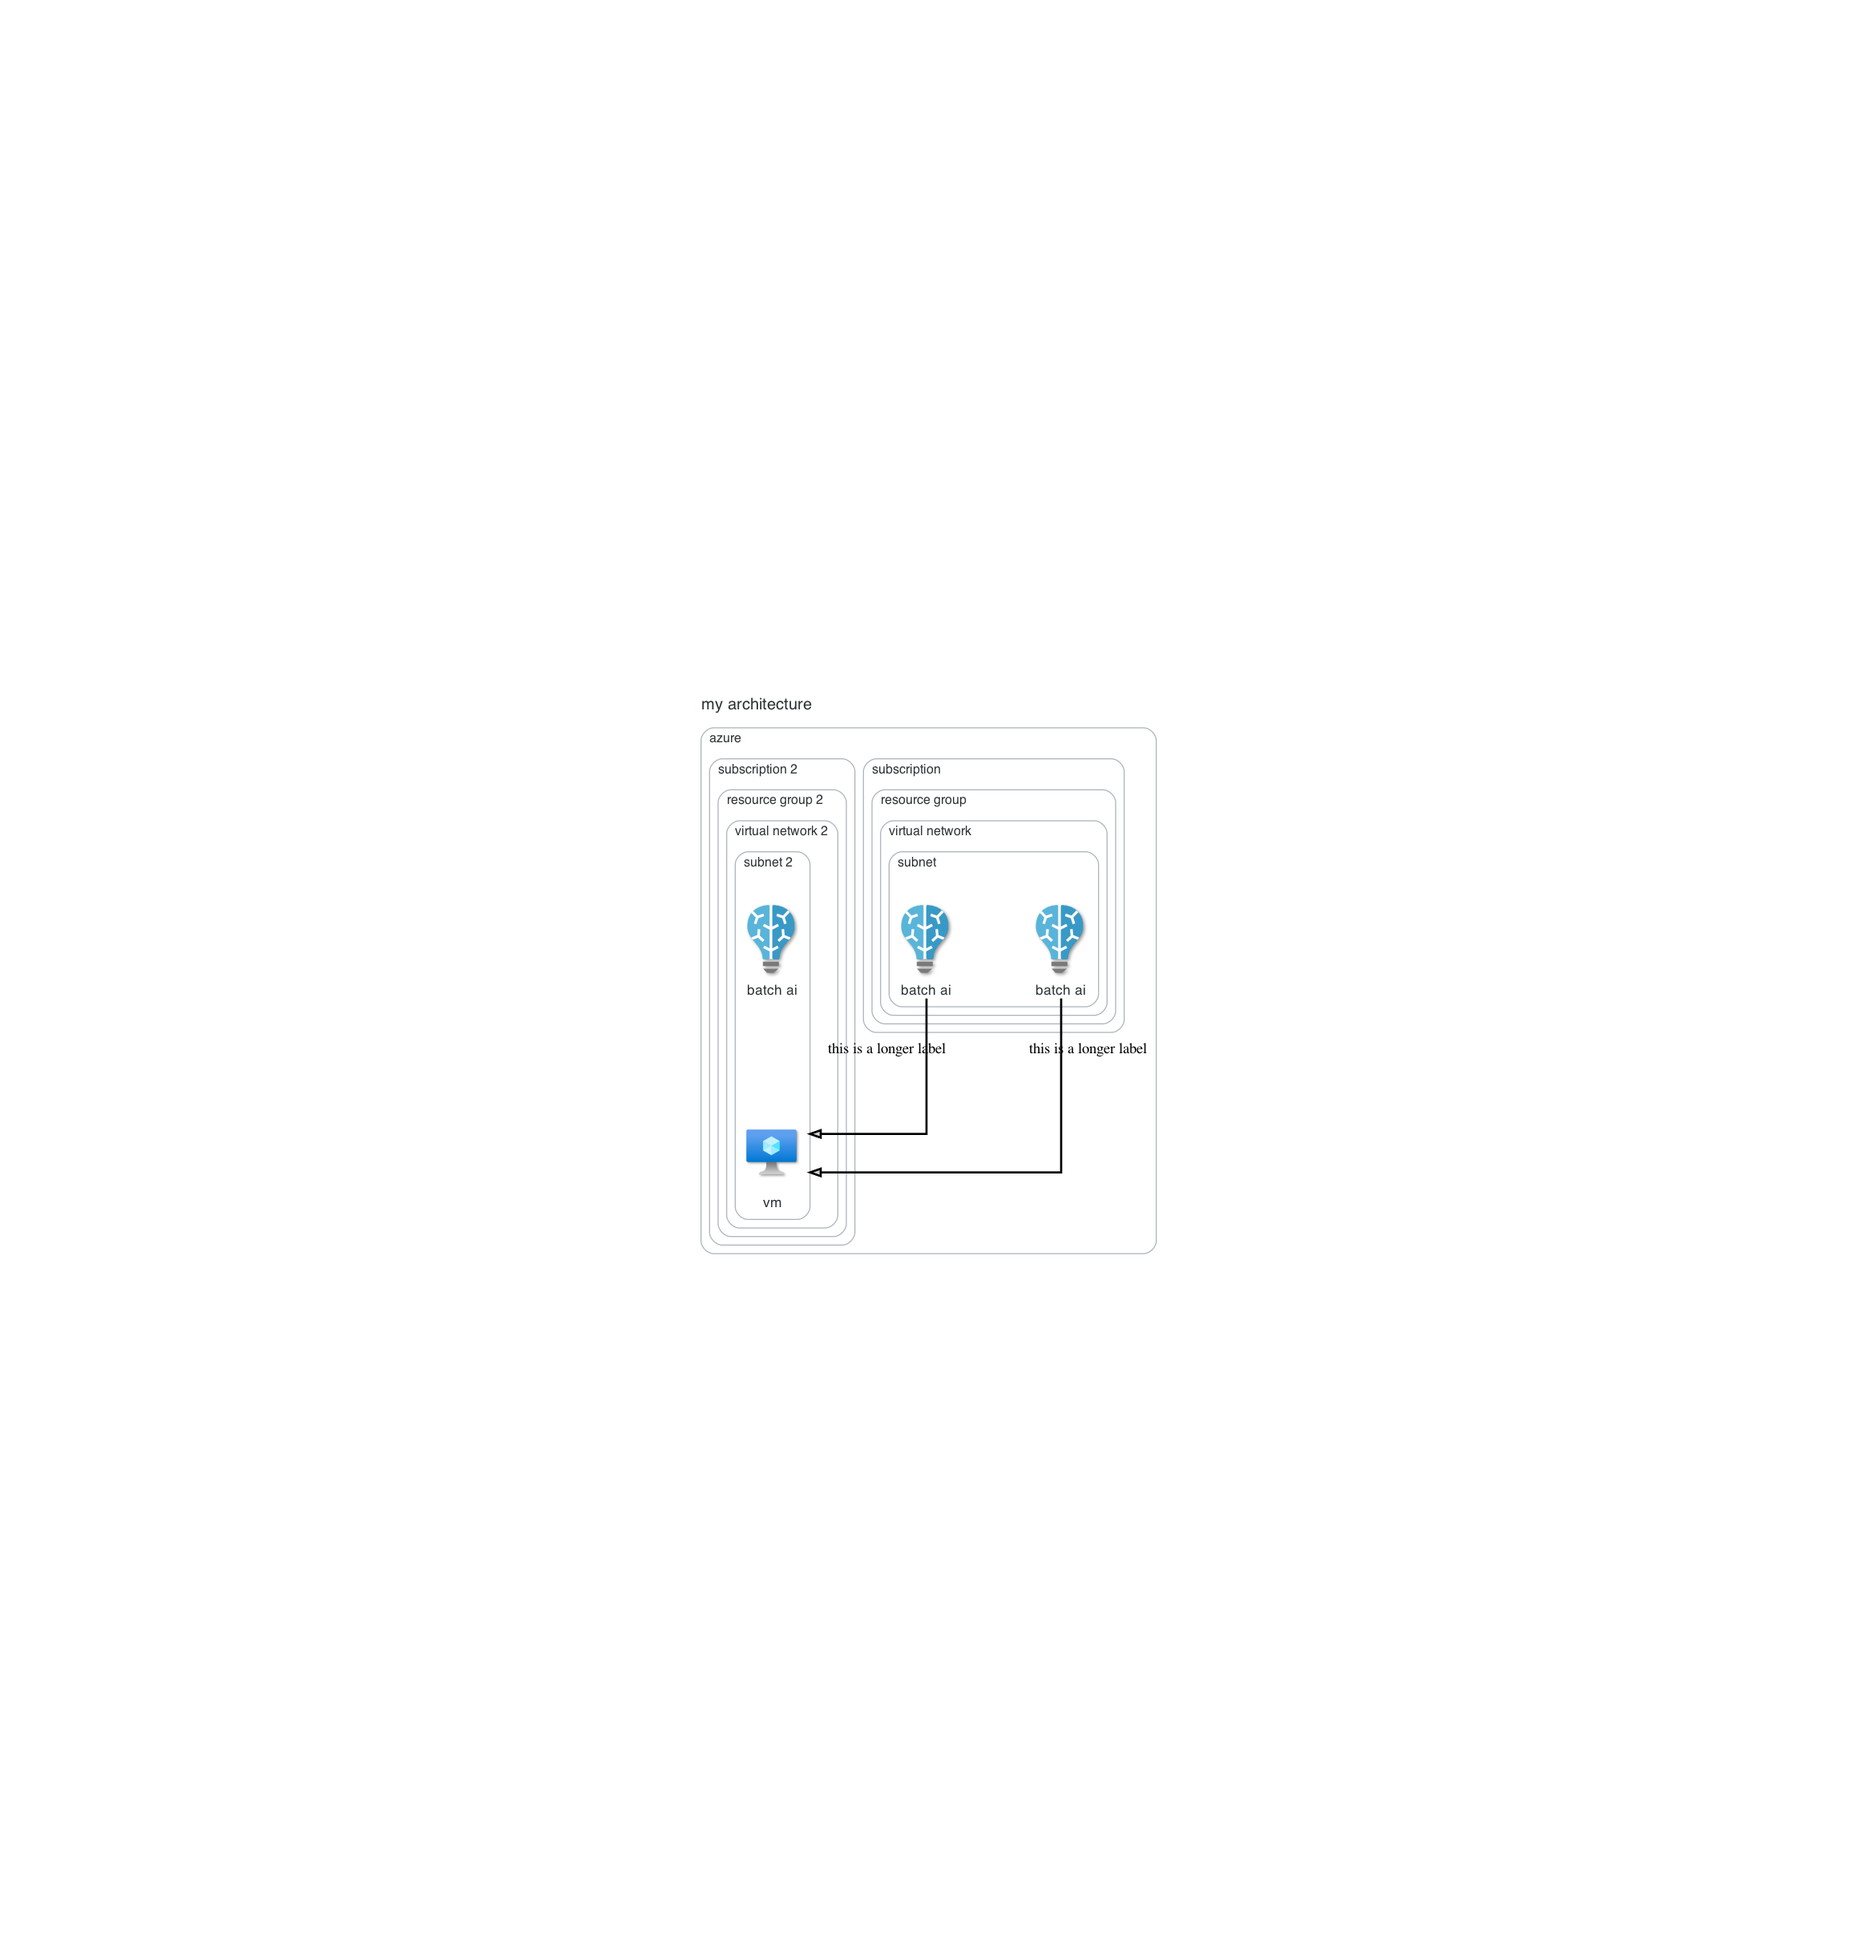
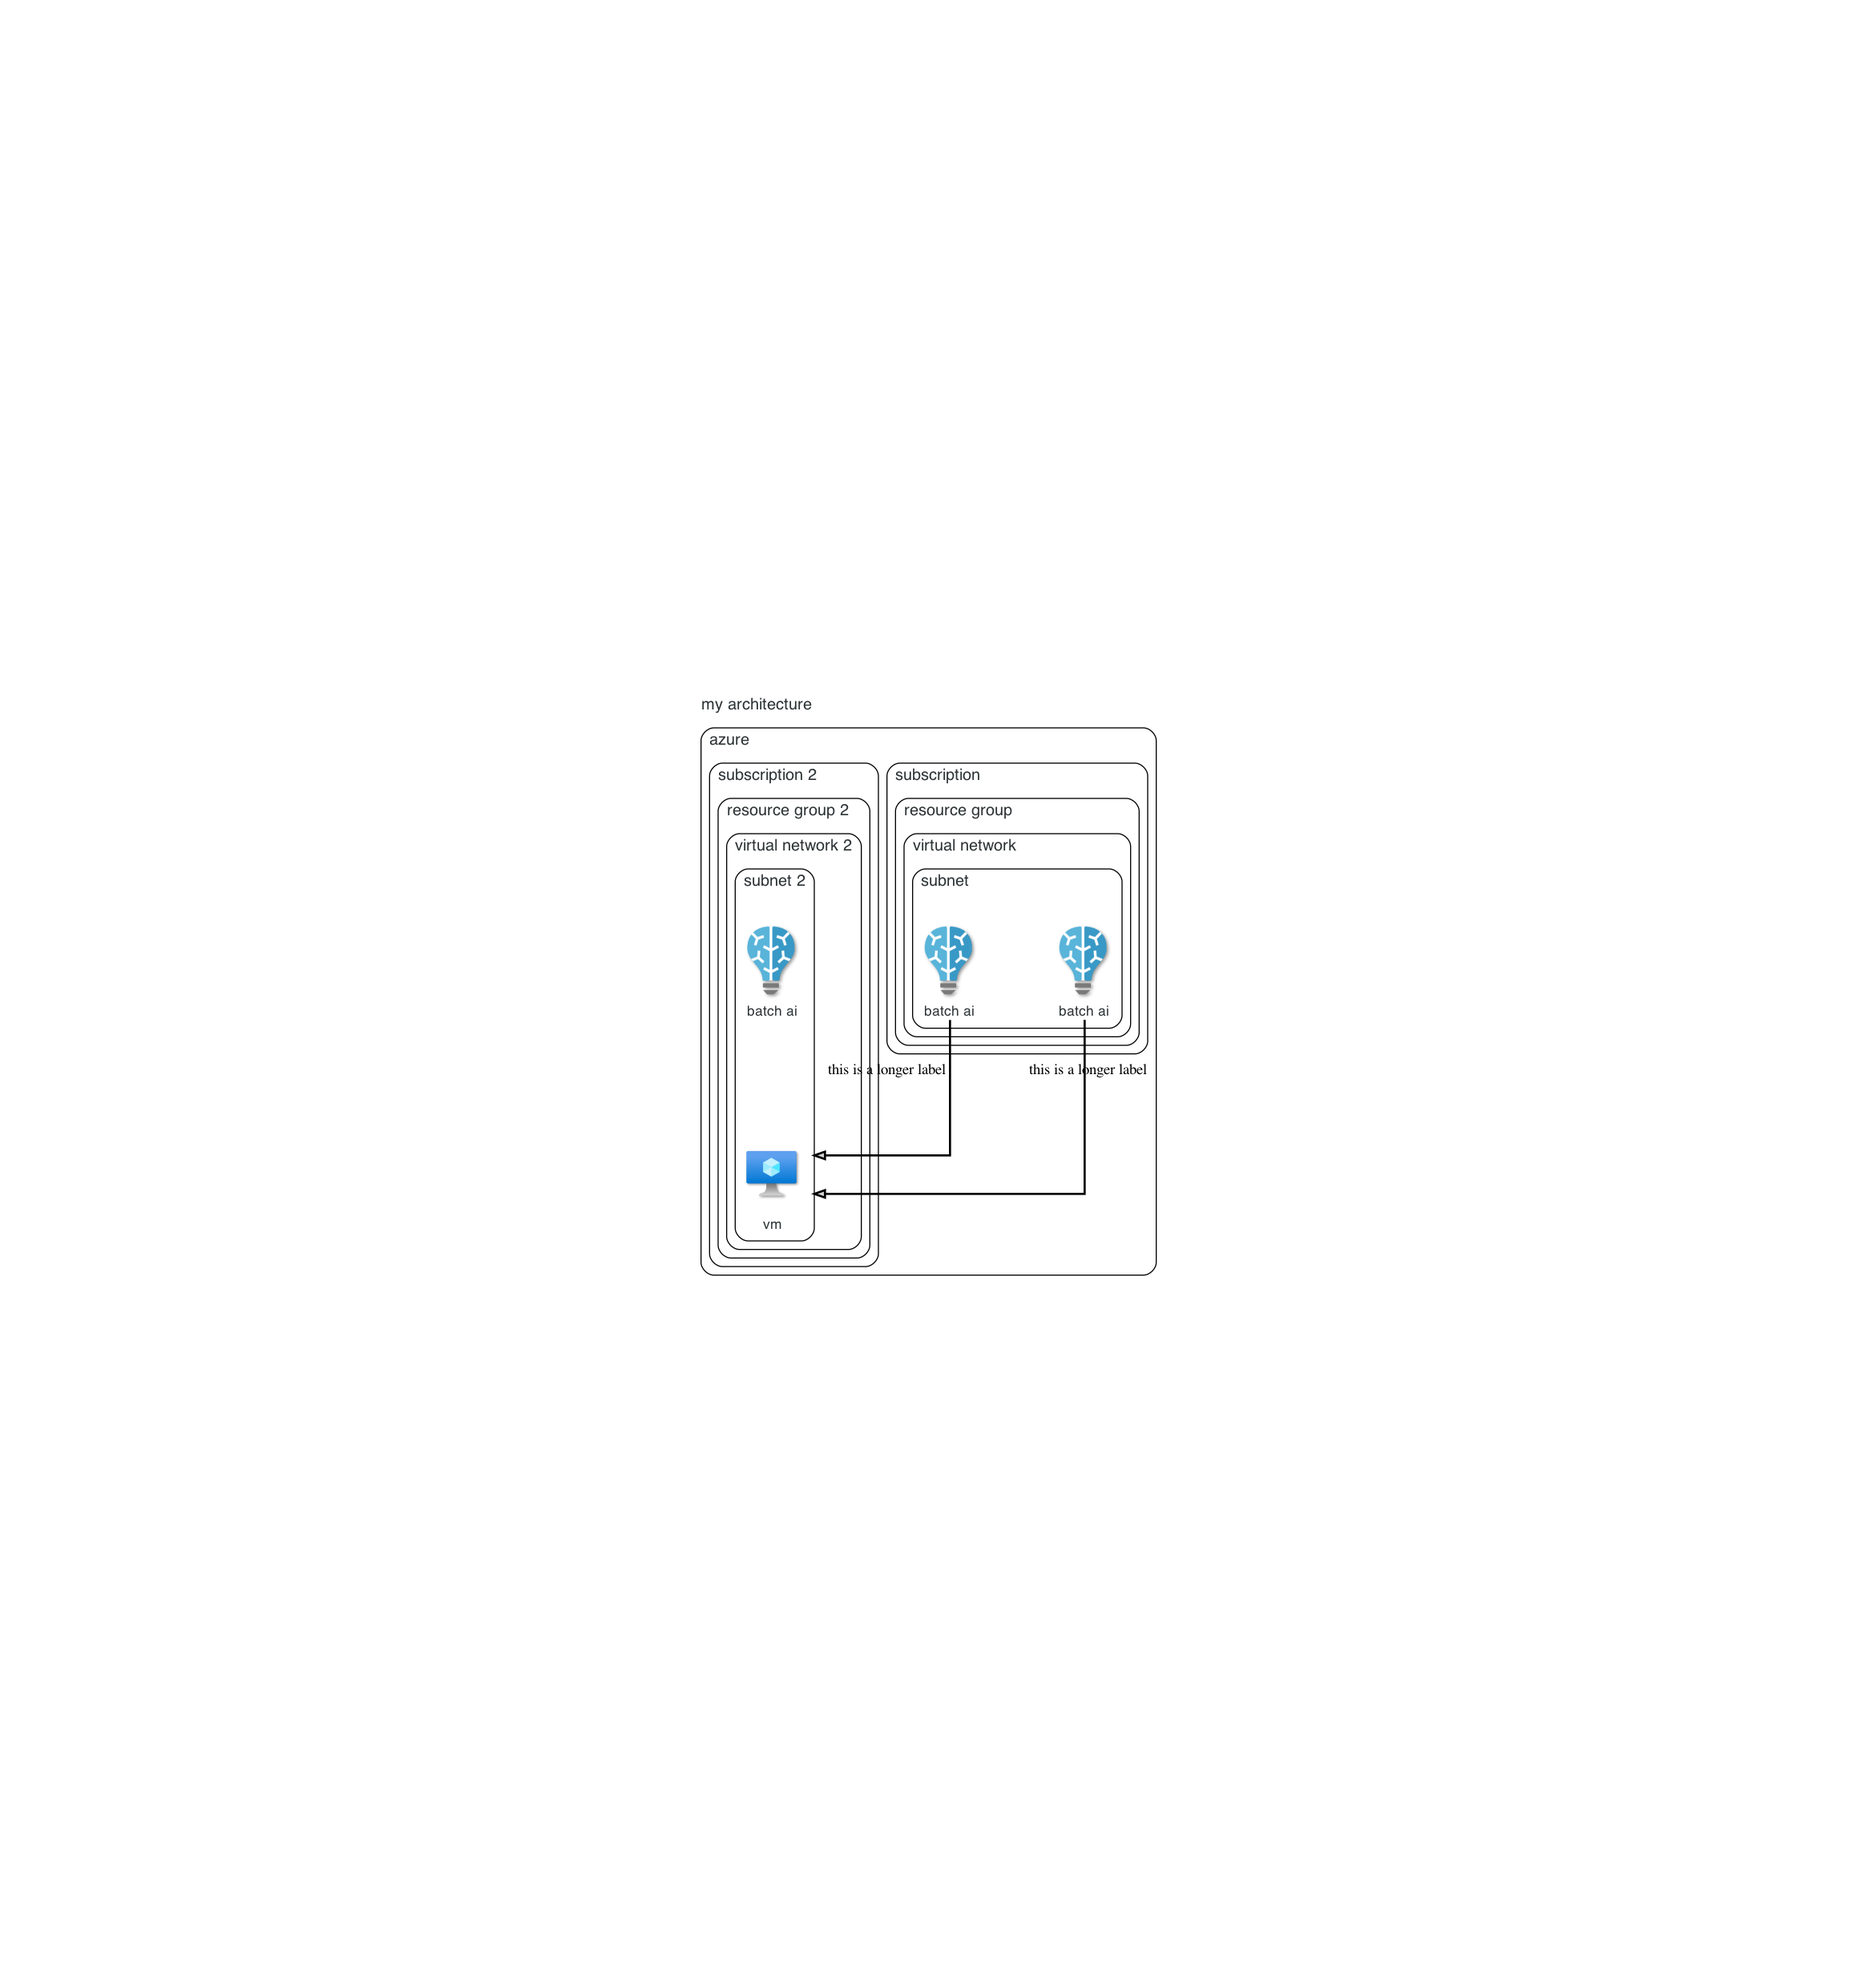
removed the legacy settings class and updated all references to settings to theme

Changed region(s): [[0.3729, 0.3428, 0.6215, 0.6544]]

diff --git a/architectures/core/__init__.py b/architectures/core/__init__.py
@@ -34,12 +34,12 @@ class Graph():
     """
     Creates the base graph for an architecture diagram.
     """
-    def __init__(self, name="", output_file_name="", output_file_format="png", settings=None, show=True, engine='dot'):
+    def __init__(self, name="", output_file_name="", output_file_format="png", theme=None, show=True, engine='dot'):
         """
         :param name ...
         :param output_file_name ...
         :param output_file_format ...
-        :param settings ...
+        :param theme ...
         :param show ...
         """
 
@@ -54,24 +54,24 @@ class Graph():
 
         self.dot = Digraph(name=self.name, filename=self.output_file_name, engine=engine)
 
-        # Set settings
-        if settings is None:
-            self.settings = Setting()
+        # Set theme
+        if theme is None:
+            self.theme = Setting()
         else:
-            self.settings = settings
+            self.theme = theme
 
         # Set global graph attributes
-        for k, v in self.settings.graph_attrs.items():
+        for k, v in self.theme.graph_attrs.items():
             self.dot.graph_attr[k] = v
 
         self.dot.graph_attr["label"] = self.name
 
         # Set global node attributes
-        for k, v in self.settings.node_attrs.items():
+        for k, v in self.theme.node_attrs.items():
             self.dot.node_attr[k] = v
 
         # Set global edge attributes
-        for k, v in self.settings.edge_attrs.items():
+        for k, v in self.theme.edge_attrs.items():
             self.dot.edge_attr[k] = v
 
         # Set option to show architecture diagram
@@ -122,10 +122,9 @@ class Cluster():
     """
     __background_colors = ("#FFFFFF", "#FFFFFF")
 
-    def __init__(self, label="cluster", settings=None):
+    def __init__(self, label="cluster"):
         """Cluster represents a cluster context.
         :param label: Cluster label.
-        :param settings: Data flow direction. Default is 'left to right'.
         """
 
         # Set the cluster label
@@ -137,15 +136,6 @@ class Cluster():
         # Create cluster
         self.dot = Digraph(self.name)
 
-        # Set settings
-        if settings is None:
-            self.settings = Setting()
-        else:
-            self.settings = settings
-
-        # Set cluster attributes.
-        for k, v in self.settings.cluster_attrs.items():
-            self.dot.graph_attr[k] = v
         self.dot.graph_attr["label"] = self.label
 
         # Node must be belong to a diagrams.
@@ -280,66 +270,3 @@ class Edge():
             self._node = start_node
 
         self._node._diagram.connect(start_node, end_node, **attrs)
-
-
-class Setting():
-    """
-    Creates an objects that holds settings be be used by Graph, Cluster, Node, and Edge
-    """
-
-    def __init__(self, graph_attrs={}, cluster_attrs={}, node_attrs={}, edge_attrs={}):
-        """
-        :param graph_attr: Provide graph_attr dot config attributes.
-        :param node_attr: Provide node_attr dot config attributes.
-        :param edge_attr: Provide edge_attr dot config attributes.
-        """
-
-        self.graph_attrs = {
-            "compound": "true", 
-            "pad": "1.0",
-            "splines": "ortho",
-            "nodesep": "1.0",
-            "ranksep": "1.0",
-            "fontname": "Sans-Serif",
-            "fontsize": "15",
-            "fontcolor": "#2D3436",
-            "style": "rounded",
-            "rankdir": "LR",
-            "labeljust": "l",
-            "labelloc": 't'
-        }
-
-        # Update these to meet out standards
-        self.cluster_attrs = {
-            "shape": "box",
-            "style": "rounded",
-            "labeljust": "l",
-            "pencolor": "#AEB6BE",
-            "fontname": "Sans-Serif",
-            "fontsize": "12"
-        }
-
-        self.node_attrs = {
-            "shape": "invis",
-            "style": "rounded",
-            "fixedsize": "true",
-            "width": "0.75",
-            "height": "1.5",
-            "labelloc": "b",
-            "imagescale": "true",
-            "fontname": "Sans-Serif",
-            "fontsize": "13",
-            "fontcolor": "#2D3436",
-            "color": "white"
-        }
-
-        self.edge_attrs = {
-            "penwidth": "2",
-            "margin": "1",
-            "minlen": "1.0"
-        }
-
-        self.graph_attrs.update(graph_attrs)
-        self.cluster_attrs.update(cluster_attrs)
-        self.node_attrs.update(node_attrs)
-        self.edge_attrs.update(edge_attrs)

diff --git a/test.py b/test.py
@@ -7,14 +7,12 @@
 # want to be able to control all settings easily from a class
 # also, currently settings are not updating as implemented
 
-from architectures.core import Graph, Cluster, Edge, Setting
+from architectures.core import Graph, Cluster, Edge
 from architectures.themes import Default, Clean
 from architectures.providers.azure.ai import BatchAI
 from architectures.providers.azure.compute import VirtualMachine
 
-theme = Clean()
-
-with Graph("my architecture", settings=theme):
+with Graph("my architecture", theme=Clean()):
     with Cluster("azure"):
         with Cluster("subscription"):
             with Cluster("resource group"):
